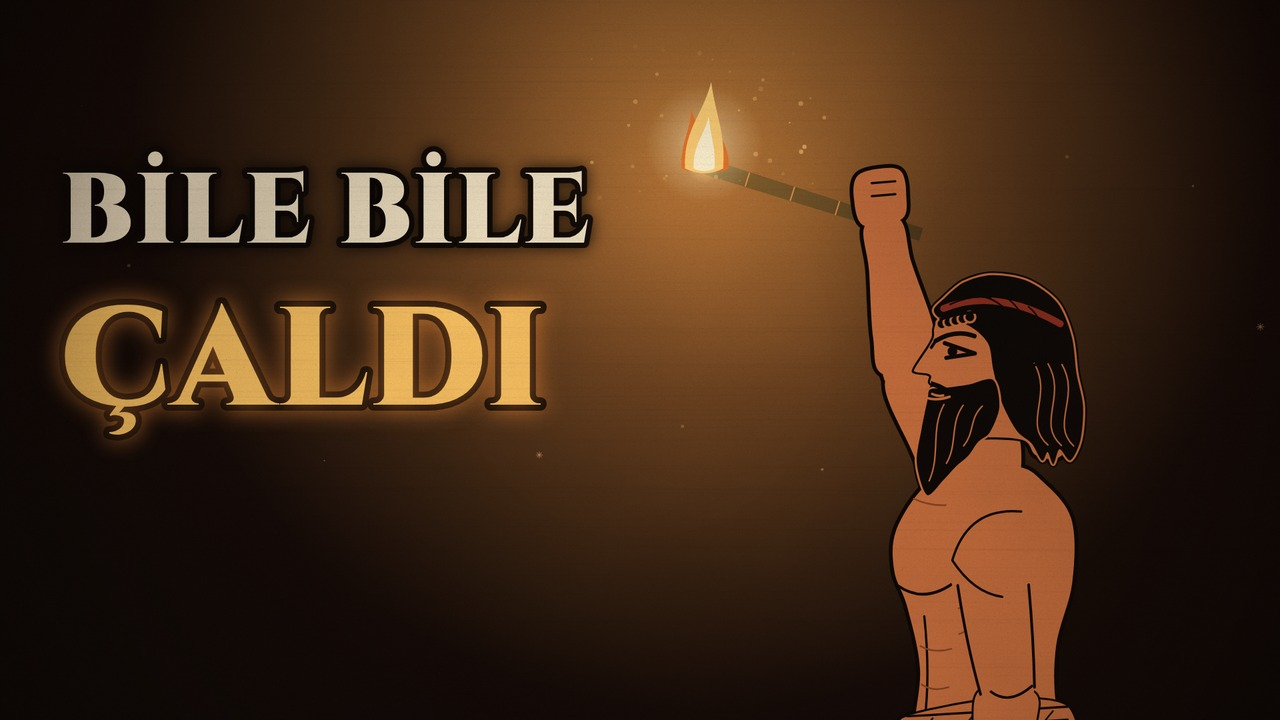
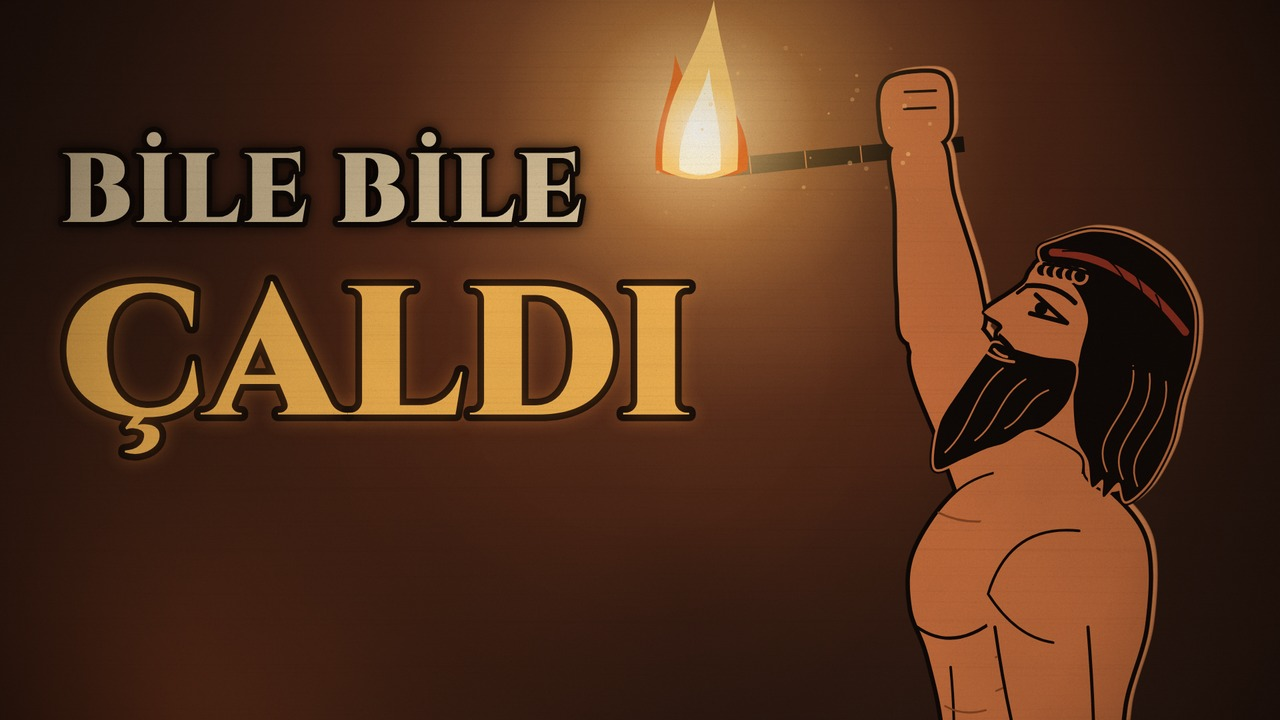
Kapak tur 2: A daha parlak ve büyük; B'de Zeus'un kelepçeli yumruğu ve yıldırım, yazı baştan ayrıldı
Kapak kurulu tur 1 düzeltmeleri: A'da ateş beyaz çekirdekli ve karenin en
parlak noktası, figür büyütüldü, zemin aydınlatıldı. B'de gri dikdörtgen
yerine buluttan uzanan kolun yumruğu yıldırımı ortasından kavrıyor, bilekte
soğuk beyaz kelepçe ve zincirin bağlandığı halka var; TUTSAK yazısı başla
çakışmıyor. Test seti kurul/kapak_tur2 altında.

Claude-Session: https://claude.ai/code/session_01DiDBPD2SuhvLG38Pt1c4BV

diff --git a/prometheus/lib/kapak.js b/prometheus/lib/kapak.js
@@ -16,40 +16,74 @@ function kapakText(ctx, l1, l2, col2, o = {}) {
   txt(ctx, l2, x, o.y2 ?? 440, { font: `900 ${o.s2 || 210}px Cinzel`, col: col2, align: 'left', ls: 3, stroke: 'rgba(14,9,7,.9)', sw: 18, shadow: o.glow || 'rgba(0,0,0,.7)', blur: o.blur || 26, force: true });
   ctx.restore();
 }
-// A: "BİLE BİLE ÇALDI": ateşi kaldırmış Prometheus, baş büyük; ateş karenin en parlak noktası
-SCENES.kapakA = (ctx, t) => {
-  const fire = [1060, 250];
-  kapakBG(ctx, t, fire);
-  const s = 16, px = 1480, py = 1080 + 8 * s;
-  // ateşi uzak kol kaldırır: kol başın arkasından geçer, yüz açık kalır; rezene figürün arkasında çizilir
-  let J = null, M = null;
-  const pose = { torso: -.02, neck: -.04, head: .02, shF: 2.65, elF: .3, shN: -.15, elN: .2, handN: 'fist', handF: 'fist', mouthOpen: 0, smile: -.6, scowl: .6, wind: .6 };
-  figure(ctx, { x: px, y: py, s, dir: -1, sty: STY.red, lk: LK.promFree, still: true, p: pose, onJoints: (j, m) => { J = j; M = m; }, alpha: 0 });
-  const wr = jointPt(ctx, M, J.AF.wr), a = Math.atan2(fire[1] - wr[1], fire[0] - wr[0]);
-  fennel(ctx, wr[0] - Math.cos(a) * 60, wr[1] - Math.sin(a) * 60, fire[0], fire[1], t, { w: 22, fs: 2.6, haloR: 330 });
-  figure(ctx, { x: px, y: py, s, dir: -1, sty: STY.red, lk: LK.promFree, still: true, stripe: .5, faceW: 1.5, p: pose });
-  motes(ctx, t, 40, 9, 'rgba(255,200,120,.9)', [880, 60, 360, 260], 40, 2.4, .8);
-  kapakText(ctx, 'BİLE BİLE', 'ÇALDI', '#FFC867', { y1: 330, y2: 560, glow: 'rgba(255,150,60,.55)', blur: 34 });
-};
-// B: "ASIL TUTSAK ZEUS": zincirli Prometheus göğe meydan okur; zincir sağ üstte karanlıktan uzanan soğuk beyaz kelepçeli bileğe gider
-SCENES.kapakB = (ctx, t) => {
-  const cuff = [1760, 120];
-  kapakBG(ctx, t, [1400, 300], false);
-  glow(ctx, 1150, 1000, 900, 'rgba(150,62,28,.45)');
-  // bulut bankası ve karanlıktan uzanan bilek (yüz ve gövde görünmez)
-  for (let i = 0; i < 5; i++) cloud(ctx, 1380 + i * 140, 60 + (i % 2) * 50, 1.6, '#1A100B', 'rgba(201,112,63,.35)', i + 2);
-  ctx.save(); ctx.translate(cuff[0], cuff[1]); ctx.rotate(.9);
-  ctx.fillStyle = PC.clayR; ctx.strokeStyle = C.ink; ctx.lineWidth = 5; ctx.beginPath(); ctx.rect(-40, -260, 80, 260); ctx.fill(); ctx.stroke();
-  glow(ctx, 0, 0, 220, 'rgba(225,232,255,.55)');
-  ctx.fillStyle = '#E6ECFF'; ctx.beginPath(); ctx.rect(-52, -40, 104, 56); ctx.fill(); ctx.lineWidth = 5; ctx.stroke();
+// Kapak kurulu tur 1 sonrası: akışta karanlık kalmasın (ortalama parlaklık ≈ 70, köşeler ≥ 30), tek odak karenin en parlak noktası,
+// büyük harf ≥ %18 (≥ 195 px, 1920'de), figür büyük (baş ≥ 435 px). Film P292 eski kapakBG/kapakText'i kullanır; onlara dokunulmaz.
+function kapakBG2(ctx, t, glowAt, o = {}) {
+  ctx.fillStyle = o.base || '#2A1912'; ctx.fillRect(0, 0, W, H);
+  const g = ctx.createRadialGradient(glowAt[0], glowAt[1], 0, glowAt[0], glowAt[1], o.r || 1125);
+  g.addColorStop(0, o.c0 || 'rgba(201,112,63,.62)'); g.addColorStop(.5, o.c1 || 'rgba(140,62,30,.32)'); g.addColorStop(1, 'rgba(0,0,0,0)');
+  ctx.fillStyle = g; ctx.fillRect(0, 0, W, H);
+  // sol altta sıcak taban ışığı (ölü alan kalmasın), yazının arkası
+  glow(ctx, o.bx ?? 260, o.by ?? 1080, o.br ?? 780, o.bc || 'rgba(150,66,30,.42)');
+}
+function kapakText2(ctx, l1, l2, c1, c2, o = {}) {
+  ctx.save(); const x = o.x ?? 90;
+  txt(ctx, l1, x, o.y1 ?? 300, { font: `900 ${o.s1 || 150}px Cinzel`, col: c1, align: 'left', ls: 2, stroke: 'rgba(14,9,7,.92)', sw: 16, shadow: 'rgba(0,0,0,.7)', blur: 20, force: true });
+  txt(ctx, l2, x, o.y2 ?? 560, { font: `900 ${o.s2 || 280}px Cinzel`, col: c2, align: 'left', ls: 3, stroke: 'rgba(14,9,7,.92)', sw: 20, shadow: o.glow || 'rgba(0,0,0,.7)', blur: o.blur || 22, force: true });
   ctx.restore();
-  const s = 15, px = 1250, py = 1080 + 7 * s;
-  // sağa, kelepçeli bileğe (Zeus'a) bakan, göğe meydan okuyan Prometheus; yakın kol zincirle yukarı çekili
+}
+// A: "BİLE BİLE ÇALDI": ateşi kaldırmış büyük Prometheus, bakışı aleve; ateş karenin en parlak noktası (çekirdek beyaz)
+SCENES.kapakA = (ctx, t) => {
+  const fire = [1050, 215];
+  kapakBG2(ctx, t, fire);
+  const s = 21, px = 1545, py = 1080 + 14 * s;
+  const pose = { torso: -.03, neck: -.12, head: -.3, shF: 2.7, elF: .28, shN: -.15, elN: .2, handN: 'fist', handF: 'fist', mouthOpen: 0, smile: -.4, scowl: .45, wind: .6 };
+  const lk = { ...LK.promFree, eyeS: 1.3 };
   let J = null, M = null;
-  figure(ctx, { x: px, y: py, s, dir: 1, sty: STY.red, lk: LK.prom, still: true, stripe: .5, faceW: 1.5,
-    p: { torso: -.06, neck: -.14, head: -.22, shN: 2.55, elN: .2, shF: .9, elF: .6, handN: 'fist', handF: 'fist', mouthOpen: .2, scowl: .75 },
+  figure(ctx, { x: px, y: py, s, dir: -1, sty: STY.red, lk, still: true, p: pose, onJoints: (j, m) => { J = j; M = m; }, alpha: 0 });
+  const wr = jointPt(ctx, M, J.AF.wr), a = Math.atan2(fire[1] - wr[1], fire[0] - wr[0]);
+  fennel(ctx, wr[0] - Math.cos(a) * 70, wr[1] - Math.sin(a) * 70, fire[0], fire[1] + 40, t, { w: 26, fire: false });
+  // sırtta kil kenar ışığı (koyu zeminden ayrılsın), sonra figür
+  ctx.save(); ctx.globalAlpha = .55; figure(ctx, { x: px + 7, y: py - 4, s, dir: -1, sty: { ...STY.red, fill: '#E08A52', cut: '#E08A52', line: '#E08A52' }, lk, still: true, p: pose, stripe: .5 }); ctx.restore();
+  figure(ctx, { x: px, y: py, s, dir: -1, sty: STY.red, lk, still: true, stripe: .5, faceW: 1.5, p: pose });
+  // ateş: büyük alev (≈ 135×255), beyaz çekirdek, geniş hâle
+  glow(ctx, fire[0], fire[1] - 40, 460, 'rgba(255,190,100,.42)');
+  flame(ctx, fire[0], fire[1] + 40, 5.1, t, { haloR: 60 });
+  glow(ctx, fire[0], fire[1] - 20, 70, 'rgba(255,255,255,.95)');
+  motes(ctx, t, 40, 9, 'rgba(255,200,120,.9)', [980, 40, 420, 300], 40, 2.4, .8);
+  kapakText2(ctx, 'BİLE BİLE', 'ÇALDI', '#D6C29C', '#F2B453', { y1: 300, y2: 560, s1: 148, s2: 276, glow: 'rgba(255,150,60,.3)', blur: 26 });
+};
+// B: "ZEUS DA TUTSAK": zincirli Prometheus sağ üste bakar; zincir, kadrajın içinde, kelepçeli bir yumruğa (Zeus) gider;
+// yumruk soğuk beyaz yıldırımı tutar: yıldırım ve kelepçe karenin en parlak noktası
+SCENES.kapakB = (ctx, t) => {
+  const F = [1665, 172];
+  kapakBG2(ctx, t, [1480, 650], { r: 900, c0: 'rgba(201,112,63,.5)', c1: 'rgba(120,52,24,.3)', bc: 'rgba(150,66,30,.38)' });
+  glow(ctx, F[0] + 40, F[1] + 40, 520, 'rgba(150,170,225,.30)');
+  glow(ctx, 1640, 320, 375, 'rgba(201,112,63,.22)');
+  // tek düz bulut silueti sağ kenarda: Zeus'un önkolu buradan yatay çıkar
+  ctx.fillStyle = '#2A1A12'; ctx.strokeStyle = 'rgba(201,112,63,.55)'; ctx.lineWidth = 4; ctx.beginPath(); ctx.moveTo(1990, -20); ctx.lineTo(1990, 270);
+  ctx.quadraticCurveTo(1900, 290, 1870, 230); ctx.quadraticCurveTo(1820, 200, 1850, 140); ctx.quadraticCurveTo(1815, 80, 1870, 40); ctx.quadraticCurveTo(1860, 0, 1900, -20); ctx.closePath(); ctx.fill(); ctx.stroke();
+  // önkol (kil, siyah kontur) buluttan yumruğa
+  ctx.save(); ctx.lineCap = 'round';
+  ctx.strokeStyle = C.ink; ctx.lineWidth = 84; ctx.beginPath(); ctx.moveTo(1900, F[1] - 40); ctx.lineTo(F[0] + 40, F[1] - 4); ctx.stroke();
+  ctx.strokeStyle = STY.red.fill; ctx.lineWidth = 72; ctx.stroke(); ctx.restore();
+  // yıldırım (keraunos) ortasından kavranır: önce yıldırım, üstüne yumruk
+  bolt(ctx, F[0], F[1], 2.1, .2, '#FFFFFF', 'rgba(225,232,255,.75)');
+  ctx.save(); ctx.translate(F[0], F[1]);
+  ctx.fillStyle = STY.red.fill; ctx.strokeStyle = C.ink; ctx.lineWidth = 6; ctx.beginPath(); ctx.ellipse(0, 4, 58, 52, 0, 0, TAU); ctx.fill(); ctx.stroke();
+  ctx.lineWidth = 4; for (let k = 0; k < 3; k++) { ctx.beginPath(); ctx.moveTo(-44, -22 + k * 22); ctx.quadraticCurveTo(-24, -18 + k * 22, -8, -20 + k * 22); ctx.stroke(); }
+  // bilekte soğuk beyaz kelepçe (önkola dik bant) ve altından sarkan halka
+  ctx.translate(84, -6); glow(ctx, 0, 0, 120, 'rgba(225,232,255,.6)');
+  ctx.fillStyle = '#E6ECFF'; ctx.lineWidth = 5; ctx.beginPath(); ctx.rect(-17, -50, 34, 100); ctx.fill(); ctx.stroke();
+  ctx.restore();
+  const ring = [F[0] + 88, F[1] + 66];
+  ctx.strokeStyle = '#F2F5FF'; ctx.lineWidth = 9; ctx.beginPath(); ctx.ellipse(ring[0], ring[1], 17, 23, .2, 0, TAU); ctx.stroke();
+  const s = 17, px = 1580, py = 1080 + 13.5 * s;
+  let J = null, M = null;
+  figure(ctx, { x: px, y: py, s, dir: 1, sty: STY.red, lk: { ...LK.prom, eyeS: 1.3 }, still: true, stripe: .5, faceW: 1.5,
+    p: { torso: -.06, neck: -.14, head: -.24, shN: 2.5, elN: .2, shF: -.25, elF: .5, handN: 'fist', handF: 'fist', mouthOpen: .15, scowl: .75 },
     hold: { N: CUFF, F: CUFF }, onJoints: (j, m) => { J = j; M = m; } });
   const wN = jointPt(ctx, M, J.AN.wr);
-  ironChain(ctx, [wN[0], wN[1] - 30], [cuff[0] - 60, cuff[1] + 60], { L0: len(sub(cuff, wN)) * 1.02, w: 16, link: 56 });
-  kapakText(ctx, 'ASIL TUTSAK', 'ZEUS', '#E6ECFF', { y1: 330, y2: 560, s1: 130, glow: 'rgba(200,215,255,.5)', blur: 30 });
+  ironChain(ctx, [wN[0], wN[1] - 30], [ring[0], ring[1] + 18], { L0: len(sub(ring, wN)) * 1.02, w: 16, link: 56, col: '#4A3426', hi: '#C9A888', bandCol: '#9C7B62' });
+  kapakText2(ctx, 'ZEUS DA', 'TUTSAK', '#DCE3F6', '#D6C29C', { y1: 300, y2: 560, s1: 168, s2: 266, glow: 'rgba(170,190,240,.3)', blur: 24 });
 };
